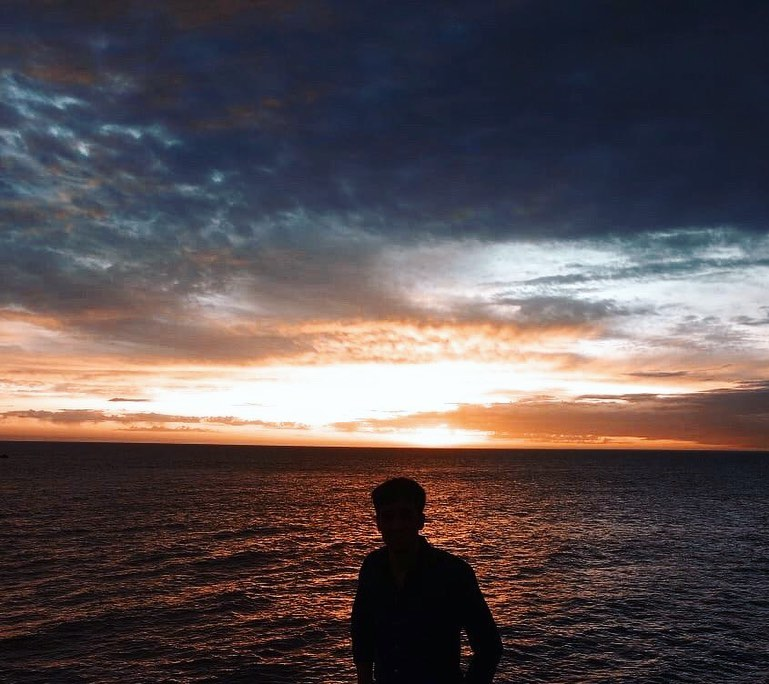
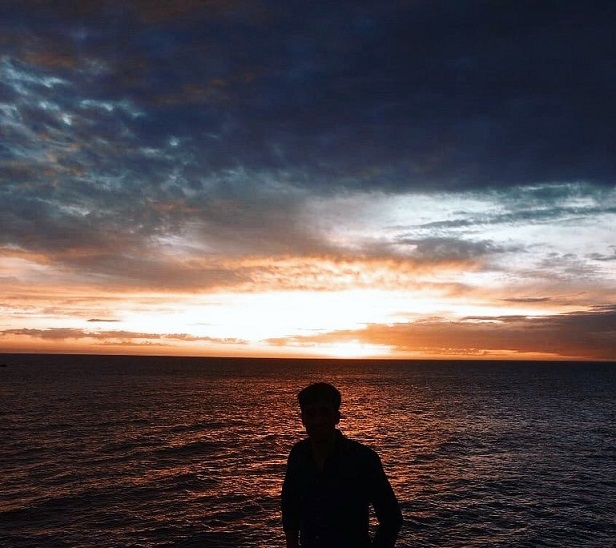
Size downgrade. New photos

diff --git a/README.md b/README.md
@@ -71,3 +71,8 @@ For those of you having issues running `setup.command`, try only this line in a 
 python "{YOUR_PATH}\tools\setup.py"  
 ```
 
+### TODO
+
+- Improve image loading, it currently takes a lot of time
+- Reduce image size
+- Consider using https://developers.google.com/speed/pagespeed/insights/ recomendations
